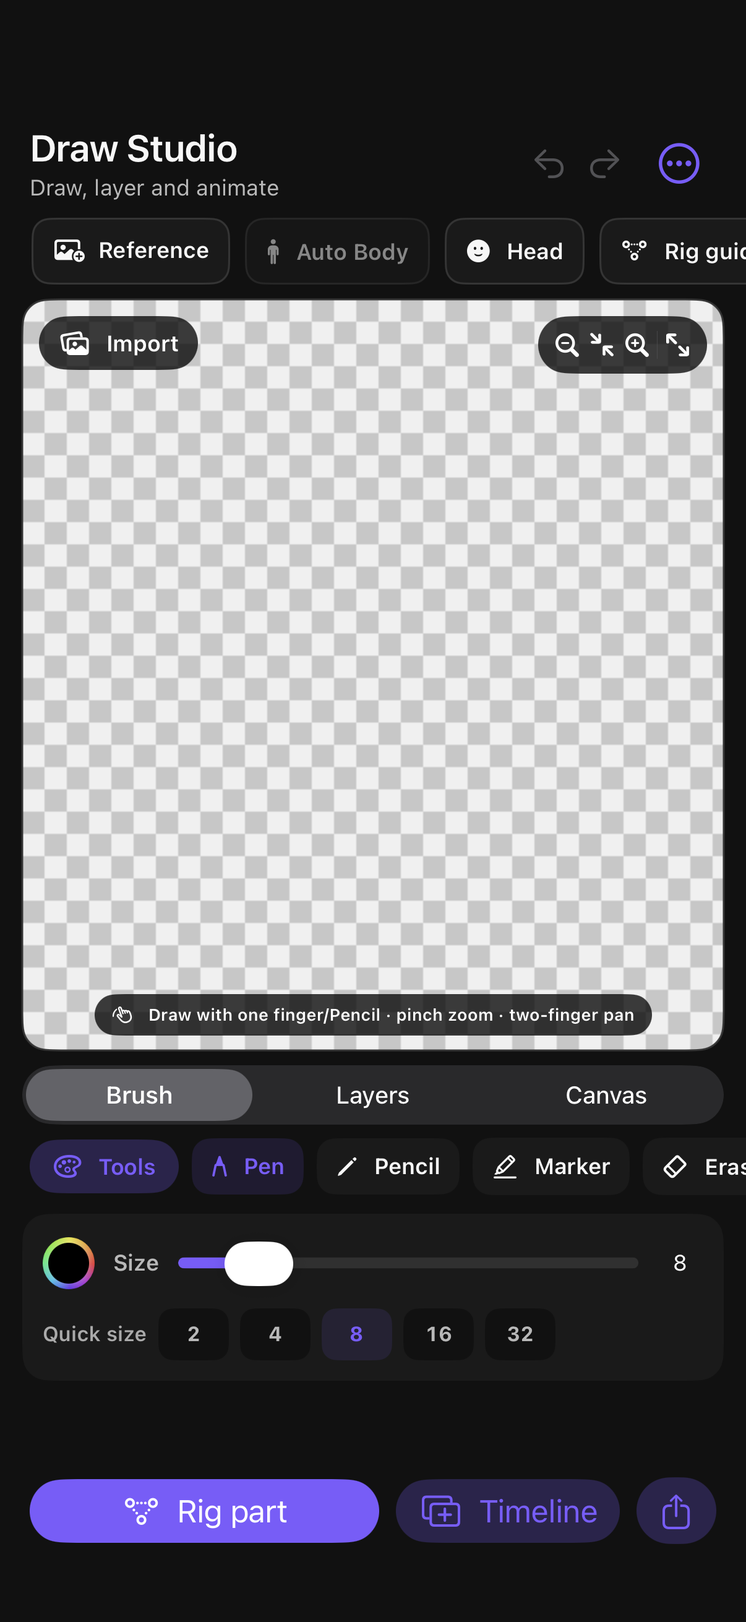
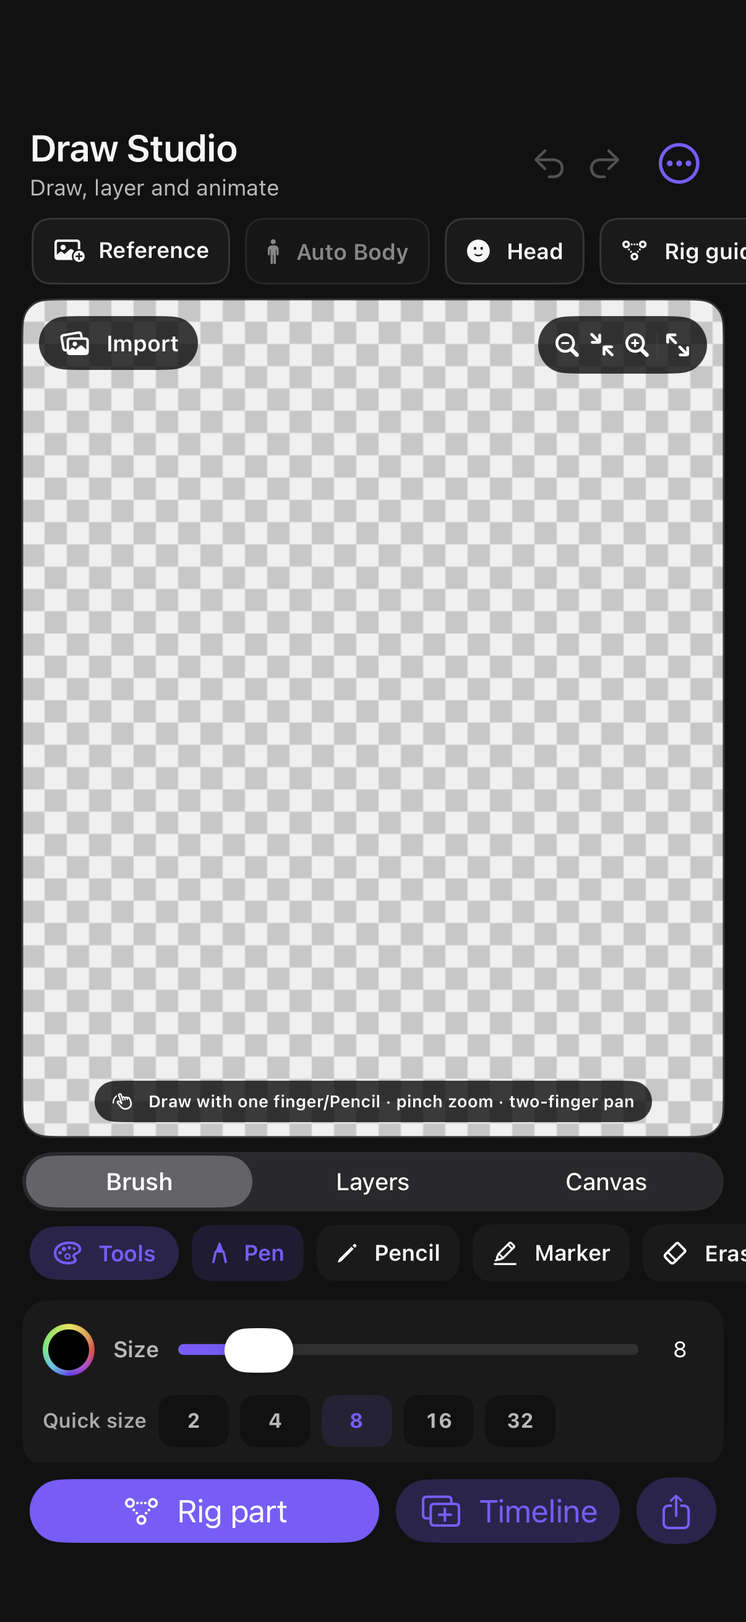
Sync verified 5.10.1 second beta download and clean-address redirect

Changed region(s): [[0.0307, 0.587, 1.0, 0.8959], [0.9818, 0.7723, 1.0, 0.8032], [0.675, 0.865, 0.7056, 0.8959]]

diff --git a/index.html b/index.html
@@ -3,16 +3,16 @@
 <head>
 <meta charset="utf-8"><meta name="viewport" content="width=device-width,initial-scale=1">
 <meta name="theme-color" content="#111315"><meta name="description" content="Soul Studio for iPhone. Layer-based editing, motion graphs, drawing, text and sound. Official beta download and installation guide.">
-<meta property="og:title" content="Official Soul Studio for iPhone"><meta property="og:description" content="Motion, sound and drawing. On iPhone."><meta property="og:type" content="website"><meta property="og:url" content="https://gc030708-blip.github.io/soul-studio/">
-<meta http-equiv="refresh" content="0;url=https://soul-studio-official.pages.dev/"><link rel="canonical" href="https://soul-studio-official.pages.dev/"><title>Official Soul Studio — iPhone creative editor</title><link rel="icon" href="soul-icon.png"><link rel="stylesheet" href="styles.css"><script src="app.js" defer></script>
+<meta property="og:title" content="Official Soul Studio for iPhone"><meta property="og:description" content="Motion, sound and drawing. On iPhone."><meta property="og:type" content="website"><meta property="og:url" content="https://soul-studio-official.pages.dev/">
+<link rel="canonical" href="https://soul-studio-official.pages.dev/"><meta http-equiv="refresh" content="0;url=https://soul-studio-official.pages.dev/"><title>Official Soul Studio — iPhone creative editor</title><link rel="icon" href="soul-icon.png"><link rel="stylesheet" href="styles.css"><script src="app.js" defer></script>
 </head>
 <body>
 <a class="skip" href="#main">Skip to content</a>
-<header class="topbar"><a class="brand" href="#" aria-label="Soul Studio home"><img src="soul-icon.png" alt="" width="32" height="32"><span>SOUL STUDIO</span></a><nav aria-label="Main navigation"><a href="#features">Features</a><a href="#release">Release notes</a><a href="#install">Install</a></nav><a class="button small" data-download href="https://www.mediafire.com/file/s966x8sulug0tys/Soul_Studio_5.10.1_Unsigned.ipa/file">Get the beta <span aria-hidden="true">↗</span></a></header>
+<header class="topbar"><a class="brand" href="#" aria-label="Soul Studio home"><img src="soul-icon.png" alt="" width="32" height="32"><span>SOUL STUDIO</span></a><nav aria-label="Main navigation"><a href="#features">Features</a><a href="#release">Release notes</a><a href="#install">Install</a></nav><a class="button small" data-download href="https://www.mediafire.com/file/3ktihhga1das4s7/Soul_Studio_5.10.1_Revision_2_Unsigned.ipa/file">Get the beta <span aria-hidden="true">↗</span></a></header>
 <main id="main">
 <section class="hero container">
-<div class="hero-copy"><p class="eyebrow"><span class="status-dot"></span> INDEPENDENT iPHONE BETA</p><h1>Motion, sound<br>and drawing.<br><span>On iPhone.</span></h1><p class="intro">Build an edit in layers. Shape its movement, make every word count and work to your own soundtrack.</p><div class="actions"><a class="button primary" data-download href="https://www.mediafire.com/file/s966x8sulug0tys/Soul_Studio_5.10.1_Unsigned.ipa/file">Download Soul Studio <span aria-hidden="true">↗</span></a><a class="quiet" href="#install">Installation guide <span aria-hidden="true">→</span></a></div><p class="requirements"><span data-version>5.10.1</span> <span aria-hidden="true">/</span> iOS 26+ <span aria-hidden="true">/</span> <span data-size>89.9 MB</span></p><p class="beta-note">Unsigned IPA. A compatible signing tool is required.</p></div>
-<figure class="product"><div class="screen-heading"><span>KEYFRAME GRAPH</span><span>SOUL STUDIO 5.10.1</span></div><img src="graph-easing.png" width="1206" height="2622" alt="Soul Studio keyframe graph and curve controls on iPhone"><figcaption>Actual app screen. Easing, value and speed graphs.</figcaption></figure>
+<div class="hero-copy"><p class="eyebrow"><span class="status-dot"></span> INDEPENDENT iPHONE BETA</p><h1>Motion, sound<br>and drawing.<br><span>On iPhone.</span></h1><p class="intro">Build an edit in layers. Shape its movement, make every word count and work to your own soundtrack.</p><div class="actions"><a class="button primary" data-download href="https://www.mediafire.com/file/3ktihhga1das4s7/Soul_Studio_5.10.1_Revision_2_Unsigned.ipa/file">Download Soul Studio <span aria-hidden="true">↗</span></a><a class="quiet" href="#install">Installation guide <span aria-hidden="true">→</span></a></div><p class="requirements"><span data-version>5.10.1</span> <span aria-hidden="true">/</span> iOS 26+ <span aria-hidden="true">/</span> <span data-size>89.9 MB</span></p><p class="beta-note">Unsigned IPA. A compatible signing tool is required.</p></div>
+<figure class="product"><div class="screen-heading"><span>KEYFRAME GRAPH</span><span>SOUL STUDIO 5.10.1</span></div><img src="graph-easing.png?v=5.10.1-r2" width="1206" height="2622" alt="Soul Studio keyframe graph and curve controls on iPhone"><figcaption>Actual app screen. Easing, value and speed graphs.</figcaption></figure>
 </section>
 <section class="features container section" id="features"><div class="section-head"><p class="eyebrow">THE WORKSPACE</p><h2>One project. Room for the details.</h2><p>A focused set of tools for building motion edits on your phone.</p></div><div class="feature-grid">
 <article><span class="index">01</span><h3>Layers & movement</h3><p>Arrange clips, shapes and text. Shape keyframes with easing, value and speed graphs, and work with nested compositions.</p><span class="tag">Edit · Animate · Compose</span></article>
@@ -20,10 +20,10 @@
 <article><span class="index">03</span><h3>Drawing & cutouts</h3><p>Draw with native brush tools, import reference images and arrange editable layers. Review automatic character cutouts or place guide points yourself.</p><span class="tag">Draw · Cut · Arrange</span></article>
 <article><span class="index">04</span><h3>Your own soundtrack</h3><p>Import full local songs into My Music. Organize project audio, review beat markers and edit caption text.</p><span class="tag">Listen · Sync · Caption</span></article>
 </div></section>
-<section class="screens container section"><div class="section-head horizontal"><div><p class="eyebrow">INSIDE THE APP</p><h2>Tools within reach.</h2></div><p>Native iPhone screens, captured from the current beta.</p></div><div class="screen-grid"><figure><div class="screen-frame"><img src="text-animate.png" alt="Soul Studio typography animation controls" width="1206" height="2622" loading="lazy"></div><figcaption><span>01 /</span> Text animation</figcaption></figure><figure><div class="screen-frame"><img src="my-music.png" alt="Soul Studio local music queue and playback controls" width="1206" height="2622" loading="lazy"></div><figcaption><span>02 /</span> My Music</figcaption></figure><figure><div class="screen-frame"><img src="draw.png" alt="Soul Studio Draw workspace" width="1206" height="2622" loading="lazy"></div><figcaption><span>03 /</span> Draw workspace</figcaption></figure></div></section>
-<section class="release section" id="release"><div class="container release-layout"><div><p class="eyebrow">LATEST RELEASE</p><h2>Soul Studio <span data-version>5.10.1</span></h2><p class="subtle">iPhone beta · 26 October 2026</p><a class="quiet" href="release-notes.md">Complete release notes <span aria-hidden="true">↗</span></a></div><div><h3>Imports, sound and editing refinements.</h3><ul class="changes"><li>Dedicated Files pickers repair silent audio and effect import callbacks.</li><li>Corrected audio-thread handling and local playback sample rates.</li><li>Repaired a reproduced incomplete-segment and frozen-tail download issue.</li><li>Sharper text, plain caption layers, clip visibility and locking.</li><li>Compact My Music and image/video tool layouts.</li></ul><p class="small-print">This is an actively developed beta. Provider restrictions, device performance and recognition quality vary. Physical iPhone acceptance remains in progress.</p></div></div></section>
-<section class="container section install" id="install"><div class="section-head"><p class="eyebrow">GET STARTED</p><h2>Install the iPhone beta.</h2><p>Soul Studio is distributed as an IPA and is not currently listed on the App Store.</p></div><ol class="steps"><li><span>1</span><div><h3>Download the latest IPA</h3><p>The download opens the verified release on MediaFire. The file size and SHA-256 fingerprint are published below.</p></div></li><li><span>2</span><div><h3>Sign and install</h3><p>Use a compatible signing tool such as <a href="https://github.com/nab138/iloader" target="_blank" rel="noopener noreferrer">iLoader</a> or follow the <a href="https://docs.sidestore.io/docs/installation/install" target="_blank" rel="noopener noreferrer">SideStore instructions</a>. Enter Apple credentials only in the signing tool you trust.</p></div></li><li><span>3</span><div><h3>Keep the installation refreshed</h3><p>Apple free-account provisioning expires after seven days. Your signing tool manages renewal; Soul Studio does not issue permanent certificates.</p></div></li></ol><div class="download-record"><div><span class="eyebrow">VERIFIED DOWNLOAD</span><p data-filename>Soul_Studio_5.10.1_Unsigned.ipa</p><code data-sha>f51eaf60fc6bd0a99d870384880cdf2c184c24ba3fe01abed724363e000e4c42</code></div><a class="button primary" data-download href="https://www.mediafire.com/file/s966x8sulug0tys/Soul_Studio_5.10.1_Unsigned.ipa/file">Open MediaFire <span aria-hidden="true">↗</span></a></div></section>
-<section class="container section questions"><p class="eyebrow">GOOD TO KNOW</p><h2>Before you start.</h2><div class="faq"><details><summary>Which AI features run on the phone?</summary><p>The optional 1.14 GB Stable Diffusion image model runs locally after download, with no provider login or API key. It requires at least 6 GB RAM and approximately 4 GB free during installation. Video generation currently uses an optional connection to your own computer running compatible ComfyUI models; it does not run on the phone. Model quality and speed vary.</p></details><details><summary>Can I import projects from other editors?</summary><p>Soul Studio project files and supported effect packs can be imported. Alight Motion XML and QR packages use different formats; complete cross-app project compatibility is not currently verified.</p></details><details><summary>Does local editing require an account?</summary><p>Local editing, local music and the optional phone image model do not need a provider account. Community and cloud-sharing tools require Soul Studio sign-in and retain storage safeguards.</p></details><details><summary>Where can I report a problem?</summary><p>Join the <a href="https://discord.gg/fvrB9WApJW" target="_blank" rel="noopener noreferrer">Soul Studio community</a>. Include your iPhone model, iOS version and the steps that reproduce the issue. Never post passwords or API keys.</p></details><details><summary>Website privacy</summary><p>This static website has no advertising trackers, account forms or media uploads. GitHub Pages processes ordinary request information for hosting. MediaFire, Discord and other linked services have their own privacy practices.</p></details></div></section>
+<section class="screens container section"><div class="section-head horizontal"><div><p class="eyebrow">INSIDE THE APP</p><h2>Tools within reach.</h2></div><p>Native iPhone screens, captured from the current beta.</p></div><div class="screen-grid"><figure><div class="screen-frame"><img src="text-animate.png?v=5.10.1-r2" alt="Soul Studio typography animation controls" width="1206" height="2622" loading="lazy"></div><figcaption><span>01 /</span> Text animation</figcaption></figure><figure><div class="screen-frame"><img src="my-music.png?v=5.10.1-r2" alt="Soul Studio local music queue and playback controls" width="1206" height="2622" loading="lazy"></div><figcaption><span>02 /</span> My Music</figcaption></figure><figure><div class="screen-frame"><img src="draw.png?v=5.10.1-r2" alt="Soul Studio Draw workspace" width="1206" height="2622" loading="lazy"></div><figcaption><span>03 /</span> Draw workspace</figcaption></figure></div></section>
+<section class="release section" id="release"><div class="container release-layout"><div><p class="eyebrow">LATEST RELEASE</p><h2>Soul Studio <span data-version>5.10.1</span></h2><p class="subtle">iPhone beta · Second beta revision · 27 October 2026</p><a class="quiet" href="release-notes.md">Complete release notes <span aria-hidden="true">↗</span></a></div><div><h3>Compact tools. More room to create.</h3><ul class="changes"><li>One fixed-height add panel: Media, Audio, Shape, Text and Elements.</li><li>Plain paged Shapes and two compact Media rows keep the preview size.</li><li>Persistent left-side visibility and lock controls on the timeline.</li><li>Larger Draw canvas, layer opacity, blending and clipping.</li><li>Updated My Music queue and a beta Alight XML layout importer.</li></ul><p class="small-print">This is an actively developed beta. Provider restrictions, device performance and recognition quality vary. Physical iPhone acceptance remains in progress.</p></div></div></section>
+<section class="container section install" id="install"><div class="section-head"><p class="eyebrow">GET STARTED</p><h2>Install the iPhone beta.</h2><p>Soul Studio is distributed as an IPA and is not currently listed on the App Store.</p></div><ol class="steps"><li><span>1</span><div><h3>Download the latest IPA</h3><p>The download opens the verified release on MediaFire. The file size and SHA-256 fingerprint are published below.</p></div></li><li><span>2</span><div><h3>Sign and install</h3><p>Use a compatible signing tool such as <a href="https://github.com/nab138/iloader" target="_blank" rel="noopener noreferrer">iLoader</a> or follow the <a href="https://docs.sidestore.io/docs/installation/install" target="_blank" rel="noopener noreferrer">SideStore instructions</a>. Enter Apple credentials only in the signing tool you trust.</p></div></li><li><span>3</span><div><h3>Keep the installation refreshed</h3><p>Apple free-account provisioning expires after seven days. Your signing tool manages renewal; Soul Studio does not issue permanent certificates.</p></div></li></ol><div class="download-record"><div><span class="eyebrow">VERIFIED DOWNLOAD</span><p data-filename>Soul_Studio_5.10.1_Revision_2_Unsigned.ipa</p><code data-sha>2dd2c904fa814d86b97bd19bbe3dfdb59d75b072652ba2628217c04f071f475f</code></div><a class="button primary" data-download href="https://www.mediafire.com/file/3ktihhga1das4s7/Soul_Studio_5.10.1_Revision_2_Unsigned.ipa/file">Open MediaFire <span aria-hidden="true">↗</span></a></div></section>
+<section class="container section questions"><p class="eyebrow">GOOD TO KNOW</p><h2>Before you start.</h2><div class="faq"><details><summary>Which AI features run on the phone?</summary><p>The optional 1.14 GB Stable Diffusion image model runs locally after download, with no provider login or API key. It requires at least 6 GB RAM and approximately 4 GB free during installation. Video generation currently uses an optional connection to your own computer running compatible ComfyUI models; it does not run on the phone. Model quality and speed vary.</p></details><details><summary>Can I import projects from other editors?</summary><p>Soul Studio project files and supported effect packs can be imported. The Alight XML layout importer is a beta: locate original media to retain editable layout and basic transforms. Proprietary effects are not translated, and QR package resolution is not integrated.</p></details><details><summary>Does local editing require an account?</summary><p>Local editing, local music and the optional phone image model do not need a provider account. Community and cloud-sharing tools require Soul Studio sign-in and retain storage safeguards.</p></details><details><summary>Where can I report a problem?</summary><p>Join the <a href="https://discord.gg/fvrB9WApJW" target="_blank" rel="noopener noreferrer">Soul Studio community</a>. Include your iPhone model, iOS version and the steps that reproduce the issue. Never post passwords or API keys.</p></details><details><summary>Website privacy</summary><p>This static website has no advertising trackers, account forms or media uploads. Cloudflare Pages processes ordinary request information for hosting. MediaFire, Discord and other linked services have their own privacy practices.</p></details></div></section>
 </main>
 <footer class="container"><div><a class="brand" href="#"><img src="soul-icon.png" alt="" width="28" height="28"><span>SOUL STUDIO</span></a><p>An independent creative editor for iPhone.</p></div><nav aria-label="Footer navigation"><a href="#release">Release notes</a><a href="https://discord.gg/fvrB9WApJW" target="_blank" rel="noopener noreferrer">Community ↗</a><a href="https://github.com/gc030708-blip/soul-studio">Website source ↗</a></nav><small>© 2026 Soul Studio</small></footer>
 </body></html>

diff --git a/release-notes.md b/release-notes.md
@@ -1,34 +1,27 @@
-# Soul Studio 5.10.1 — iPhone update
+# Soul Studio 5.10.1 — second beta revision
 
-Built from the verified 5.10.0 iOS source. Minimum iOS 26.0. The IPA is unsigned; a valid signing method is required before installing. The app shows version 5.10.1 without a visible build-number label. Android is outside this update.
+27 October 2026 · iOS 26.0 or later · unsigned IPA
 
 ## Changes
 
-- **Files imports:** dedicated document pickers replace conflicting nested import callbacks in music, audio and custom effects. Selections are copied/coordinated before processing, cancellation is handled, and rejected formats show an explanation. Supported XML shader/effect-library formats can be imported; arbitrary foreign app projects and desktop AEX binaries cannot be converted faithfully.
-- **Audio:** preserve the shared audio session when stopping an audition, connect 44.1/48 kHz sources at their native rate, and keep real-time PCM callbacks outside the Swift main actor. Fixes a reproduced audio-thread crash. Music queue rename/reorder and Sound folder navigation/sorting are available. Complete local songs play inside the app. Spotify's official embed remains a preview; Spotify Free does not authorize full native playback.
-- **Intro:** a new original, quiet intro sound follows the existing sound preference and Silent switch.
-- **Downloads:** accept valid bounded 200/206 range responses, retry short transfers safely, reject invalid/truncated files, and re-resolve an expired URL once. Correct fragmented MP4 initialization durations on app-owned copies before reading/importing. A public YouTube test previously appeared twice its actual length with half the frame rate and a frozen tail; it now imports at its real duration/rate. Downloader is in Elements. Existing ten-minute and optional local enhancement controls remain. Providers can still block/remove/restrict links; no promise that every link will work.
-- **Text/editor:** tighter high-resolution glyph rendering fixes the small raster text preview; plain captions now use the same real text layers for preview and export instead of a duplicated karaoke overlay. Appearance and animation presets are independent. Selected timeline rows expose undoable visibility and lock controls; locked rows cannot be resized. Inspector touch targets and seek completion are improved.
-- **Compact panels:** My Music uses a queue-first layout and a fixed, compact transport. Image & Video uses prompt-first controls, a compact engine switch and a fixed Generate action; setup details stay in disclosures. Media and Shapes use two rows.
-- **Auto Body:** start with automatic recognition or Place points. Correct rotated manual guides, maintain exact pivots, and reject stale/cancelled results. Masks and outlines remain editable; stylized characters/weapons are not guaranteed to be detected perfectly.
-- **Image/video AI:** retain optional downloadable phone image generation without an account/API key/Apple Intelligence. Add an optional private, certificate-pinned connection to the user's own computer running ComfyUI for image/video workflows. The included setup kit contains code, instructions and starter graphs, not model weights. Computer generation requires separately installed compatible models and a tested workflow. The optional owner-key Cloudflare mode remains explicitly capped and opt-in; no paid fallback or billing is enabled.
-- **Notifications:** contextual permission request, export/update alerts and deduplicated incoming-message alerts while listeners are active. Cached/history/own/pending messages do not alert; mute preferences are account-specific and lockscreen text is generic. Reliable suspended/terminated-app push is not configured: it requires APNs credentials/entitlements and a server.
-- **Languages:** bundled dictionaries load once and switch immediately. Script/region lookup and dynamic effect/parameter labels are improved; translated native controls use the same bundled catalog. There are 25 dictionaries with varying coverage, not complete translations for all 136 language choices. Missing strings fall back to English. See Validation/LOCALIZATION_5_10_1.md.
-- **3D samples (last priority):** add two free Quaternius Standard humanoids with real skinned meshes and 65 poseable joints each. Original buffers/textures, license and provenance stay bundled. These are stylized base characters, not photorealistic humans; imported animation clips are not played.
-- **Website:** About links to the existing public Soul Studio site, independent of the suspended GitHub account: https://soul-studio-ios.indigotide128.chatgpt.site/. Release download publication is verified separately after building/uploading the IPA.
+- A fixed-height add panel with Media, Audio, Shape, Text and Elements. Switching tabs preserves the panel position and preview size.
+- Two compact Media rows and a plain, paged Shapes grid with 30 vector presets.
+- Timeline visibility and lock controls pinned to the left.
+- A larger Draw canvas, layer visibility and locking, opacity, seven blend modes and clipping to the layer below.
+- A clearer My Music player and searchable local queue. Late playback-state updates respect pauses and interruptions.
+- A beta Alight XML layout importer with a compatibility review and original-media selection.
+- Removed the sample-model browser while retaining compatibility with saved projects.
 
-## Verification
+## Installation and limits
 
-Actual native checks cover audio import/play/seek/output and recording callbacks (21), editor typography/models/presets (56), downloader/XML/coordinated reads (42), fragmented timing (23), notification policy (24), and the production TLS computer-generation client including wrong-pin rejection (9). Four Node tests cover the private gateway. Integration suites passed 3,819 effect endpoint checks, 199 editing checks, 42 update/custom-effect checks, 55 identity/sample checks and 15 music checks. Auto Body and assembly regression scripts passed. Native mounted screenshots are supplied separately.
+The IPA must be signed with a compatible installation tool. Native simulator and package checks passed; physical-device acceptance and large-project performance testing remain outstanding.
 
-Live downloader checks decoded the last video frame and verified actual audio tracks for a public TikTok clip and YouTube video-with-audio, video-only and audio-only downloads. The corrected YouTube video measured 18.933 seconds at 15 fps instead of 37.866 seconds at 7.5 fps. Tests of the computer gateway used synthetic media for transport; they do not prove trained video-model inference or iPhone generation speed.
+Alight import preserves editable layout and basic transforms. Original media is required; proprietary effects are not translated and QR package resolution is not integrated.
 
-Physical iPhone Files/iCloud-provider behavior, Bluetooth/audio routes, dense-project interaction, ten-minute enhancement, speech recognition quality and thermal/RAM behavior still need device acceptance. Existing projects with previously recorded wrong timing are not automatically rescaled; reimport the affected source. This release does not claim zero bugs, all languages/words, arbitrary XML compatibility or unlimited hardware performance.
+Final Draw blending and clipping appear after a live stroke ends. Layer-property edits do not have a separate undo history.
 
-## Free software and sources
+Optional phone image generation requires a model download and supported hardware. Video generation still requires a configured computer connection. Full Spotify Free streaming is unavailable through the supported integration; complete local songs play inside My Music.
 
-No purchase, subscription or billing was enabled. Existing packages and new setup code remain local/free. Parallel agents helped implement modules; their quota later stopped, and integration continued in the main task without bypassing it.
+This is an actively developed beta. AI recognition, external download providers and device performance have practical limits.
 
-- [Apple AVAudioEngine](https://developer.apple.com/documentation/avfaudio/avaudioengine), [UIDocumentPickerViewController](https://developer.apple.com/documentation/uikit/uidocumentpickerviewcontroller), [UserNotifications](https://developer.apple.com/documentation/usernotifications).
-- [Spotify iOS SDK requirements](https://developer.spotify.com/documentation/ios/).
-- [ComfyUI server routes](https://docs.comfy.org/development/comfyui-server/comms_routes), [SDXL model](https://huggingface.co/stabilityai/stable-diffusion-xl-base-1.0), [FLUX.1 Schnell](https://huggingface.co/black-forest-labs/FLUX.1-schnell), [Wan 2.1 1.3B](https://huggingface.co/Wan-AI/Wan2.1-T2V-1.3B). Read model licenses and hardware requirements before downloading. Phone SD2.1 requirements remain at least 6 GB RAM and about 4 GB free during installation.
+Official website: https://soul-studio-official.pages.dev/

diff --git a/README.md b/README.md
@@ -4,7 +4,7 @@ Official project website for the Soul Studio iPhone beta.
 
 - Website: https://soul-studio-official.pages.dev/
 - Distribution: verified IPA releases on MediaFire.
-- Primary hosting: Cloudflare Pages Free, static direct upload. This GitHub Pages address is retained as a compatibility redirect to the clean official URL.
+- Hosting: Cloudflare Pages, free static direct upload. GitHub retains a compatibility address and website-only source.
 
 This repository contains website files only. The iOS application's source, user files, signing credentials and IPA binaries are not included.
 
